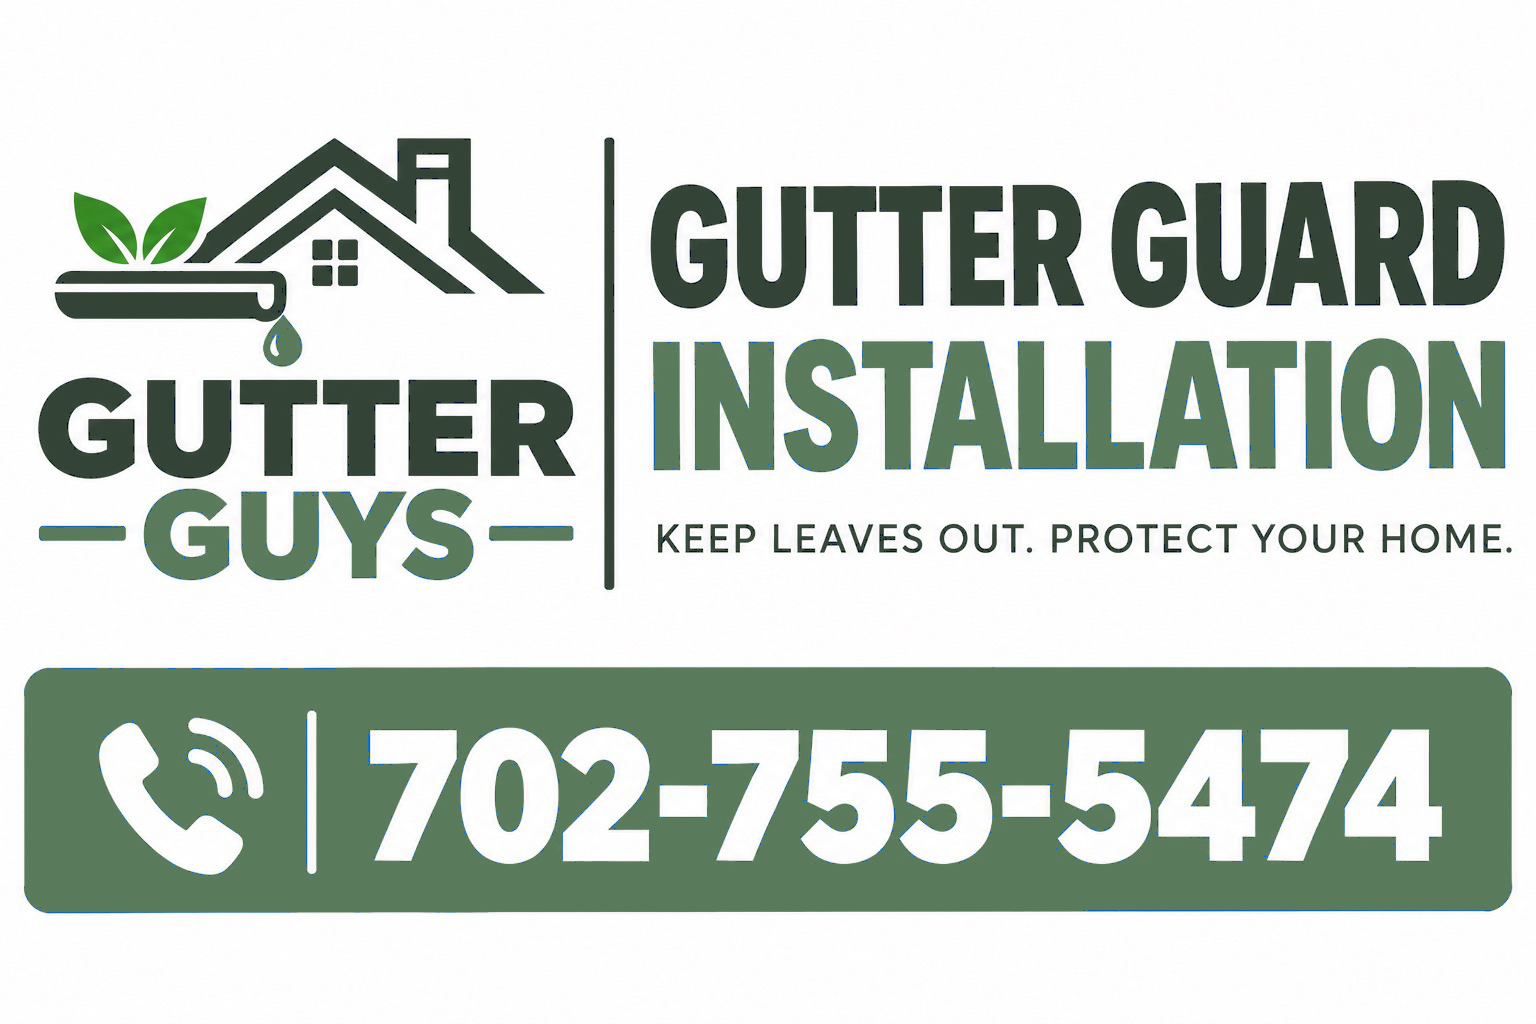
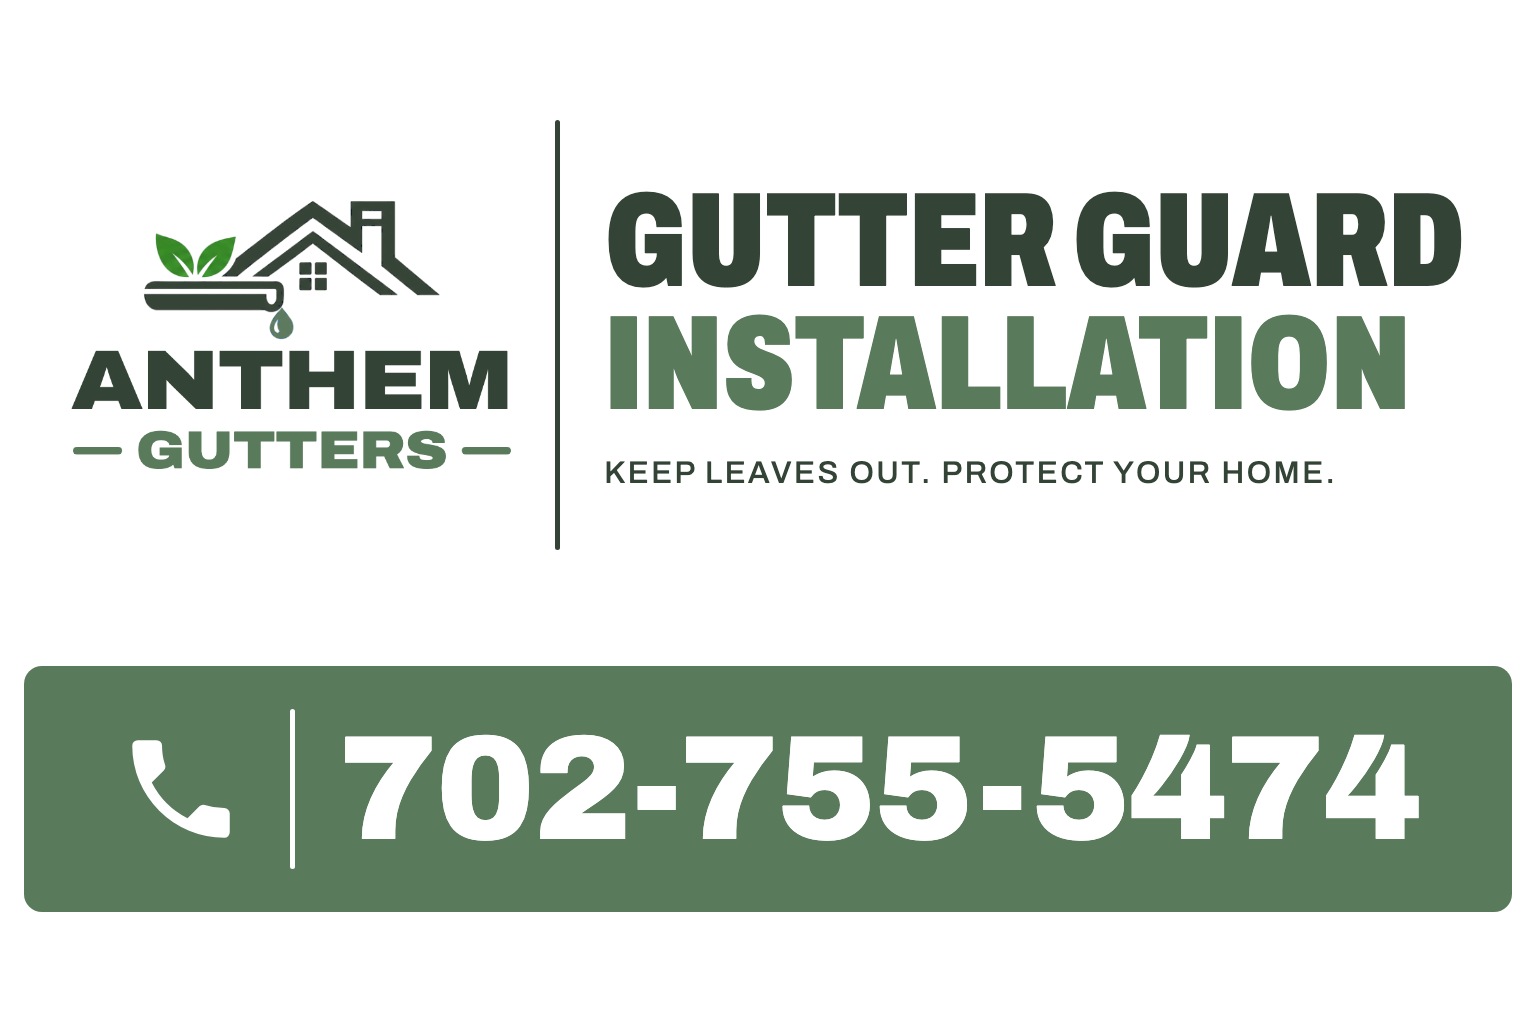
Rebrand site to Anthem Gutters
New logo and banner, page title, metadata, and footer updated.

Changed region(s): [[0.0, 0.125, 1.0, 0.5625], [0.0625, 0.6875, 0.9375, 0.875]]

diff --git a/index.html b/index.html
@@ -3,8 +3,14 @@
 <head>
   <meta charset="utf-8">
   <meta name="viewport" content="width=device-width, initial-scale=1">
-  <title>Gutter Guys | Gutter Guard Installation</title>
-  <meta name="description" content="Gutter guard installation in American Fork, Lehi & surrounding areas. Keep leaves out and protect your home. Call or text 702-755-5474 for a free estimate.">
+  <title>Anthem Gutters | Gutter Guard Installation</title>
+  <meta name="description" content="Anthem Gutters: gutter guard installation in American Fork, Lehi & surrounding areas. Keep leaves out and protect your home. Call or text 702-755-5474 for a free estimate.">
+
+  <link rel="canonical" href="https://anthemgutters.com/">
+  <meta property="og:title" content="Anthem Gutters | Gutter Guard Installation">
+  <meta property="og:description" content="Gutter guard installation in American Fork, Lehi &amp; surrounding areas. Call or text 702-755-5474 for a free estimate.">
+  <meta property="og:url" content="https://anthemgutters.com/">
+  <meta property="og:type" content="website">
 
   <link rel="icon" type="image/png" sizes="192x192" href="assets/favicon.png">
   <link rel="icon" type="image/png" sizes="48x48" href="assets/favicon-48.png">
@@ -340,8 +346,8 @@
 
   <header class="site-header">
     <div class="wrap">
-      <a class="brand" href="#top" aria-label="Gutter Guys home">
-        <img src="assets/logo.png" alt="Gutter Guys" width="555" height="465">
+      <a class="brand" href="#top" aria-label="Anthem Gutters home">
+        <img src="assets/logo.png?v=2" alt="Anthem Gutters" width="696" height="423">
       </a>
       <a class="header-call" href="tel:+17027555474">
         <span>
@@ -483,7 +489,7 @@
       <p class="eyebrow">Less cleaning<span class="slash">/</span>More peace of mind</p>
     </div>
     <div class="legal">
-      <p>&copy; <span id="year">2026</span> Gutter Guys &middot; Gutter guard installation in Utah County</p>
+      <p>&copy; <span id="year">2026</span> Anthem Gutters &middot; Gutter guard installation in Utah County</p>
     </div>
   </footer>
 
